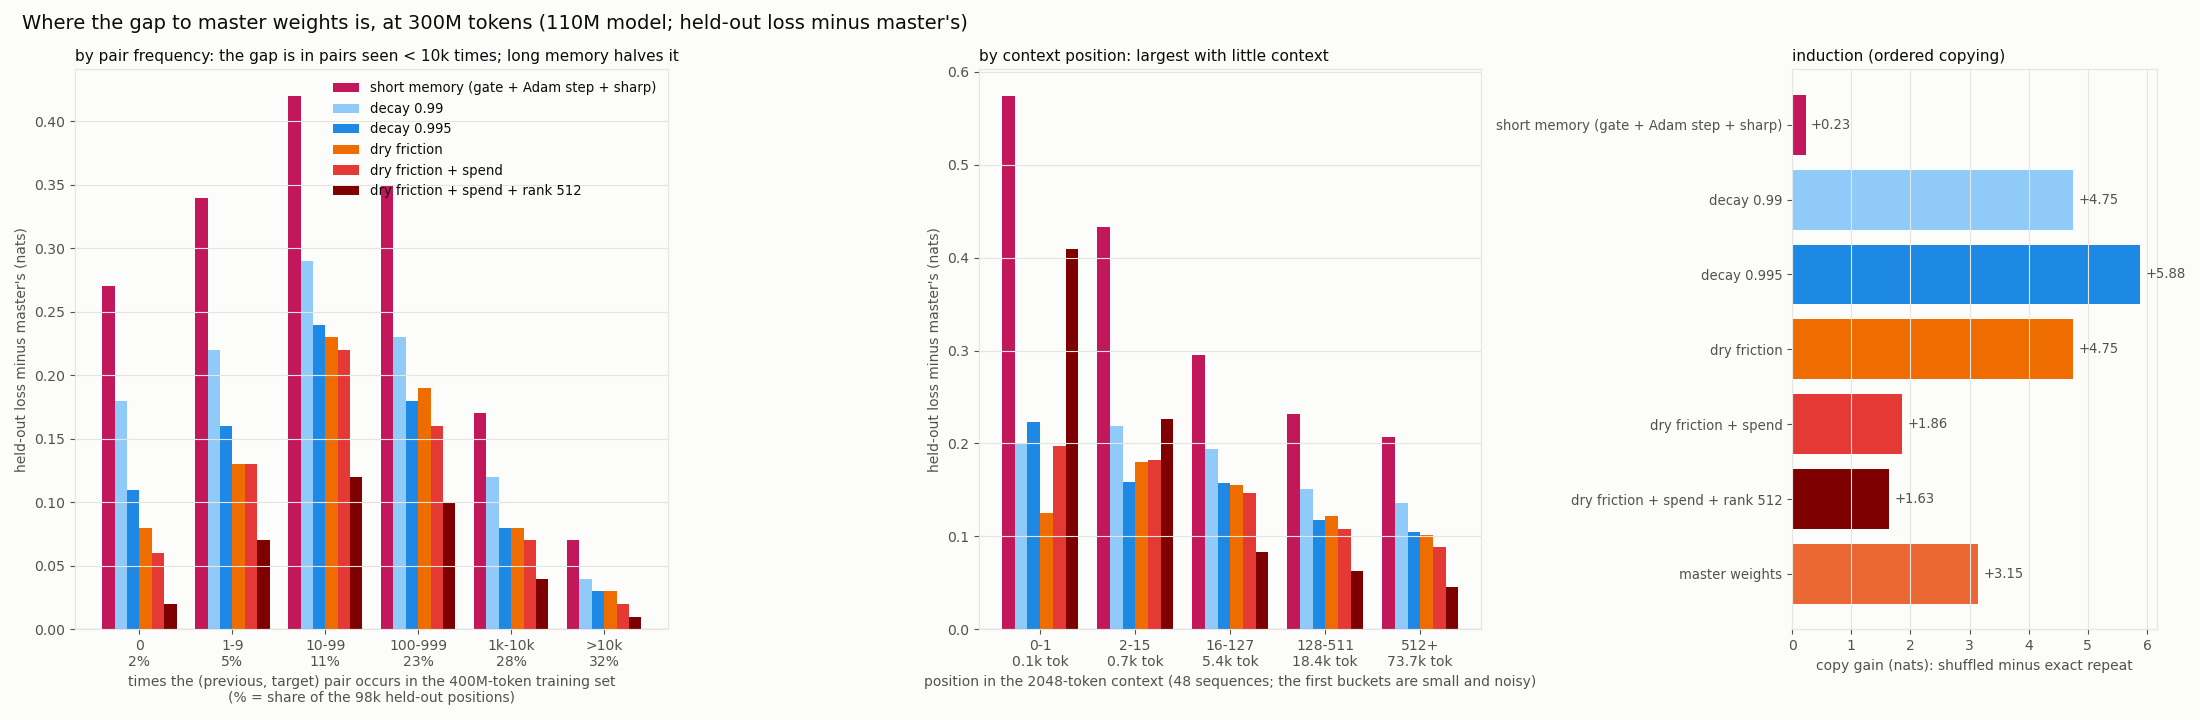
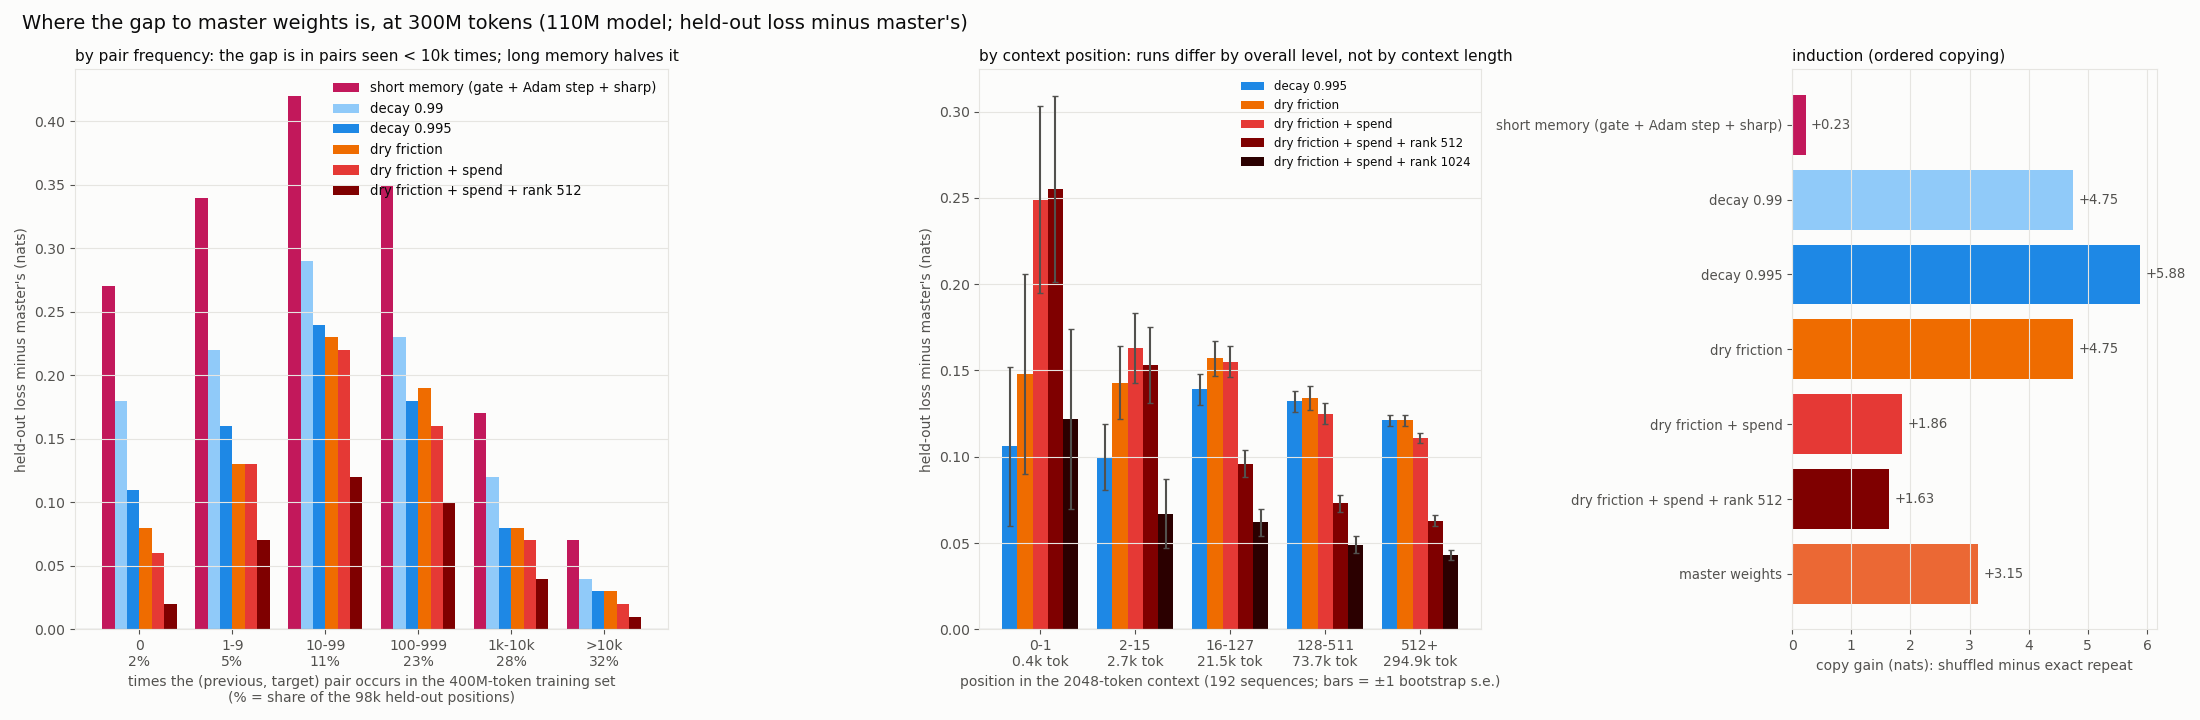
Position gaps re-measured on 192 sequences with bootstrap errors: dry friction and decay equal at long context

Changed region(s): [[0.4018, 0.1222, 0.68, 0.8861], [0.5255, 0.0611, 0.68, 0.2444], [0.4327, 0.9167, 0.68, 0.9778]]

diff --git a/scripts/plots/plot_gaps.py b/scripts/plots/plot_gaps.py
@@ -54,15 +54,26 @@ a.set_title("by pair frequency: the gap is in pairs seen < 10k times; long memor
             loc="left")
 a.legend(loc="upper right", fontsize=9.5, frameon=False, labelcolor=INK)
 a = axs[1]
-for i, (r, lab, c) in enumerate(RUNS):
-    if r not in POS: continue
-    gap = np.array(POS[r][0]) - np.array(POS[M][0])
-    a.bar(np.arange(5) + (i - n / 2 + 0.5) * w, gap, w, color=c)
-NTOK = [48 * (b - a) for a, b in [(0, 2), (2, 16), (16, 128), (128, 512), (512, 2048)]]
+# by position: the 192-sequence measurement with bootstrap errors (scripts/analysis/pos_gap.py), 4x loss_by_pos
+PG = {}
+for l in open(f"{D}/pos_gap_laptop.txt"):
+    m = re.match(r"(gvsharp\S+)\s+(.*)$", l)
+    if m:
+        v = re.findall(r"([+-][\d.]+) ± ([\d.]+)", m.group(2))
+        if len(v) == 5: PG[m.group(1)] = [(float(x), float(e)) for x, e in v]
+PRUNS = [(r, lab, c) for r, lab, c in RUNS if r in PG] + [("gvsharp_dryspend_r1024_s0", "dry friction + spend + rank 1024", "#2b0000")]
+PRUNS = [x for x in PRUNS if x[0] in PG]
+npr = len(PRUNS); wp = 0.8 / npr
+for i, (r, lab, c) in enumerate(PRUNS):
+    xs = np.arange(5) + (i - npr / 2 + 0.5) * wp
+    a.bar(xs, [v for v, _ in PG[r]], wp, color=c, yerr=[e for _, e in PG[r]], ecolor=INK2, capsize=2, label=lab)
+NTOK = [192 * (b - a_) for a_, b in [(0, 2), (2, 16), (16, 128), (128, 512), (512, 2048)]]
 a.set_xticks(np.arange(5)); a.set_xticklabels([f"{q}\n{n / 1000:.1f}k tok" for q, n in zip(QB, NTOK)])
-a.set_xlabel("position in the 2048-token context (48 sequences; the first buckets are small and noisy)", color=INK2); a.axhline(0, color=INK2, lw=0.8)
+a.set_xlabel("position in the 2048-token context (192 sequences; bars = ±1 bootstrap s.e.)", color=INK2)
+a.axhline(0, color=INK2, lw=0.8)
 a.set_ylabel("held-out loss minus master's (nats)", color=INK2)
-a.set_title("by context position: largest with little context", color=INK, fontsize=11, loc="left")
+a.set_title("by context position: runs differ by overall level, not by context length", color=INK, fontsize=11, loc="left")
+a.legend(loc="upper right", fontsize=8.5, frameon=False, labelcolor=INK)
 a = axs[2]
 rows = [(lab, c, POS[r][1]) for r, lab, c in RUNS if r in POS] + [("master weights", "#eb6834", POS[M][1])]
 y = np.arange(len(rows))

diff --git a/scripts/analysis/pos_gap.py b/scripts/analysis/pos_gap.py
@@ -1,0 +1,42 @@
+"""Loss by context position with error bars: NSEQ held-out sequences (default 192, 4x loss_by_pos), per position bucket
+the mean loss of each run minus the first run's (master), with a bootstrap standard error over sequences (paired: the
+same sequences for every run).
+  python -m scripts.analysis.pos_gap master_tracked:9154:master gvsharp_dry_s0:9154:kernel ... [--n 192]
+"""
+import sys, numpy as np, torch, torch.nn.functional as F
+from scripts.analysis.induction_heads import load
+
+args = [a for a in sys.argv[1:] if not a.startswith("--")]
+NSEQ = int(sys.argv[sys.argv.index("--n") + 1]) if "--n" in sys.argv else 192
+args = [a for a in args if not a.isdigit()]
+val = np.memmap("data/wiki32k_val.bin", dtype=np.uint16, mode="r")
+starts = np.random.default_rng(21).integers(0, len(val) - 2049, NSEQ)
+X = torch.tensor(np.stack([val[s:s + 2049].astype(np.int64) for s in starts]))
+B = [(0, 2), (2, 16), (16, 128), (128, 512), (512, 2048)]
+per = {}
+for arg in args:
+    run, st, kind = arg.split(":")
+    step, m, V = load(f"checkpoints/{run}/ckpt_{st}.pt", kind)
+    L = []
+    with torch.no_grad(), torch.autocast("cuda", dtype=torch.bfloat16):
+        for i in range(NSEQ):
+            x = X[i:i + 1, :-1].cuda(); y = X[i:i + 1, 1:].cuda()
+            out = m(x); lg = out[0] if isinstance(out, tuple) else out
+            L.append(F.cross_entropy(lg.float().reshape(-1, lg.shape[-1]), y.reshape(-1), reduction="none").cpu())
+    per[run] = torch.stack(L).numpy()                 # NSEQ x 2048
+    del m; torch.cuda.empty_cache()
+rng = np.random.default_rng(0)
+boot = rng.integers(0, NSEQ, (2000, NSEQ))
+names = list(per); M = per[names[0]]
+print(f"{NSEQ} sequences; tokens per bucket: " + " / ".join(str(NSEQ * (b - a)) for a, b in B))
+print(f"{'run':30s}" + "".join(f"{f'{a}-{b - 1}':>18s}" for a, b in B))
+for n in names:
+    cells = []
+    for a, b in B:
+        d = (per[n][:, a:b] - M[:, a:b]).mean(1)       # per-sequence mean difference
+        if n == names[0]:
+            cells.append(f"{per[n][:, a:b].mean():18.3f}")
+        else:
+            se = d[boot].mean(1).std()
+            cells.append(f"{d.mean():+10.3f} ± {se:.3f}")
+    print(f"{n:30s}" + "".join(cells))

diff --git a/docs/RUNS.md b/docs/RUNS.md
@@ -1925,3 +1925,22 @@ Share of master's gain over the unigram guess, (U - ours) / (U - master): best r
   +0.245 -> +0.090, against >10k +0.026 -> +0.004. Memory length sets how long each rare fact is held; rank sets how
   many distinct facts the momentum can hold at once. The remaining gap is a capacity limit of the low-rank momentum for
   many sparse, specific facts.
+
+### 1 Oct 00:50: loss by context position, re-measured with error bars (`scripts/analysis/pos_gap.py`)
+
+192 held-out sequences (4x loss_by_pos, different sequences), paired bootstrap standard errors; loss minus master's:
+
+| run | 0-1 (384 tok) | 2-15 (2.7k) | 16-127 (21.5k) | 128-511 (73.7k) | 512+ (295k) |
+|---|---|---|---|---|---|
+| decay 0.995 | +0.106 ± 0.046 | +0.100 ± 0.019 | +0.139 ± 0.009 | +0.132 ± 0.006 | +0.121 ± 0.003 |
+| dry friction | +0.148 ± 0.058 | +0.143 ± 0.021 | +0.157 ± 0.010 | +0.134 ± 0.007 | +0.121 ± 0.003 |
+| dry + spend | +0.249 ± 0.054 | +0.163 ± 0.020 | +0.155 ± 0.009 | +0.125 ± 0.006 | +0.111 ± 0.003 |
+| dry + spend + rank 512 | +0.255 ± 0.054 | +0.153 ± 0.022 | +0.096 ± 0.008 | +0.073 ± 0.005 | +0.063 ± 0.003 |
+| dry + spend + rank 1024 | +0.122 ± 0.052 | +0.067 ± 0.020 | +0.062 ± 0.008 | +0.049 ± 0.005 | +0.043 ± 0.003 |
+
+- Long context is the same for dry friction and decay 0.995 (+0.121 each). The 48-sequence split in the old gaps.png
+  (dry friction best at 0-1, decay 0.995 worst) reverses on new sequences: it was noise.
+- Decay 0.995 may be slightly better than dry friction with 2-127 tokens of context (+0.100 vs +0.143 at 2-15, ~1.5 s.e.
+  apart): weak evidence only.
+- Spend without extra rank is worse with 0-1 tokens of context (+0.25 vs +0.15, ~1.5-2 s.e.); rank 1024 removes it.
+- Otherwise the runs differ by their overall level at every context length; gaps.png now draws this measurement.
